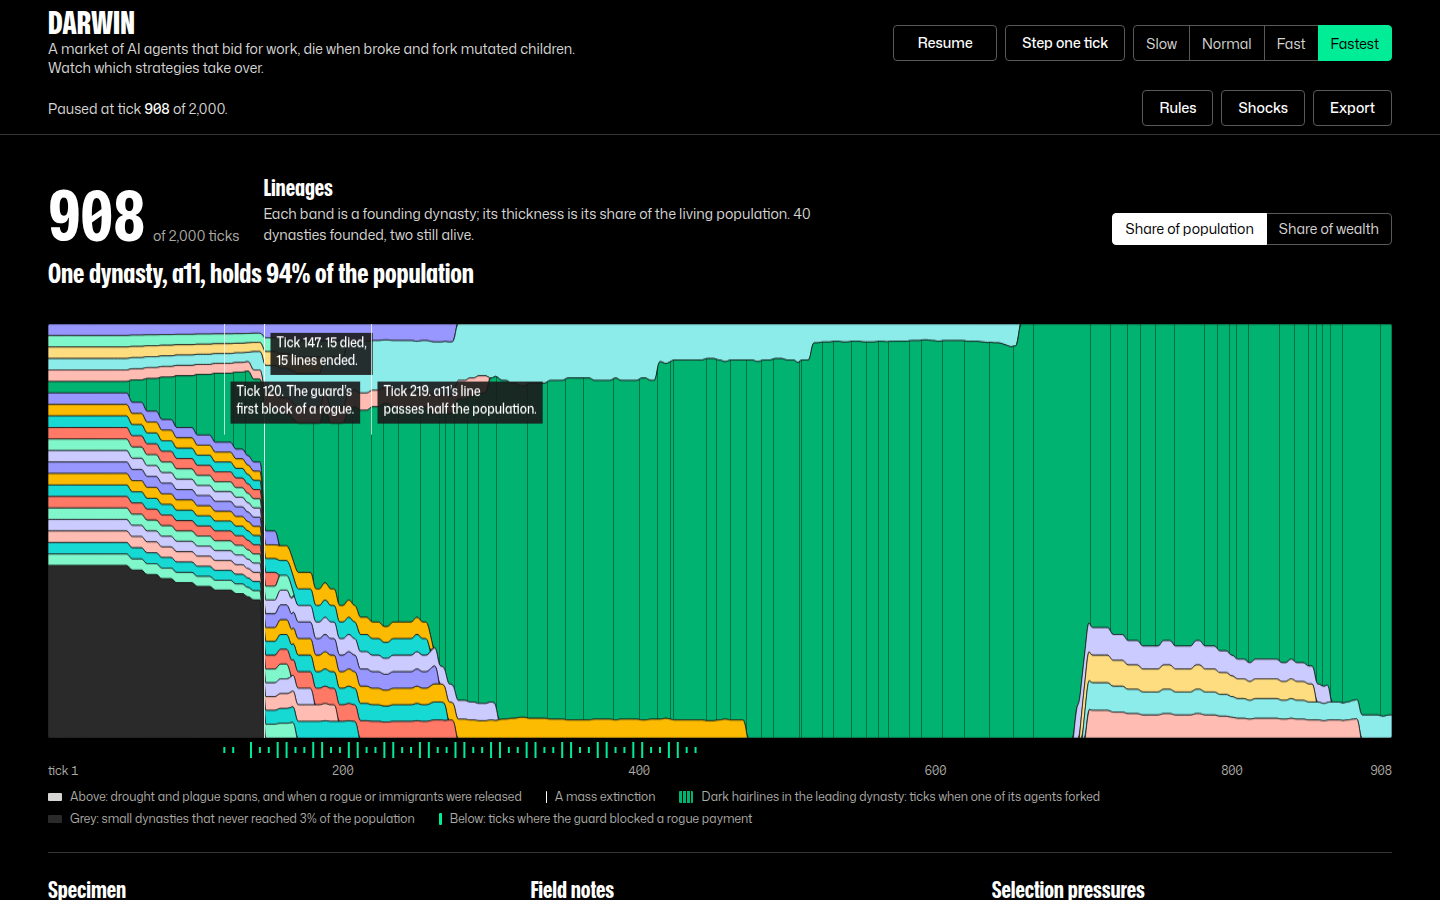
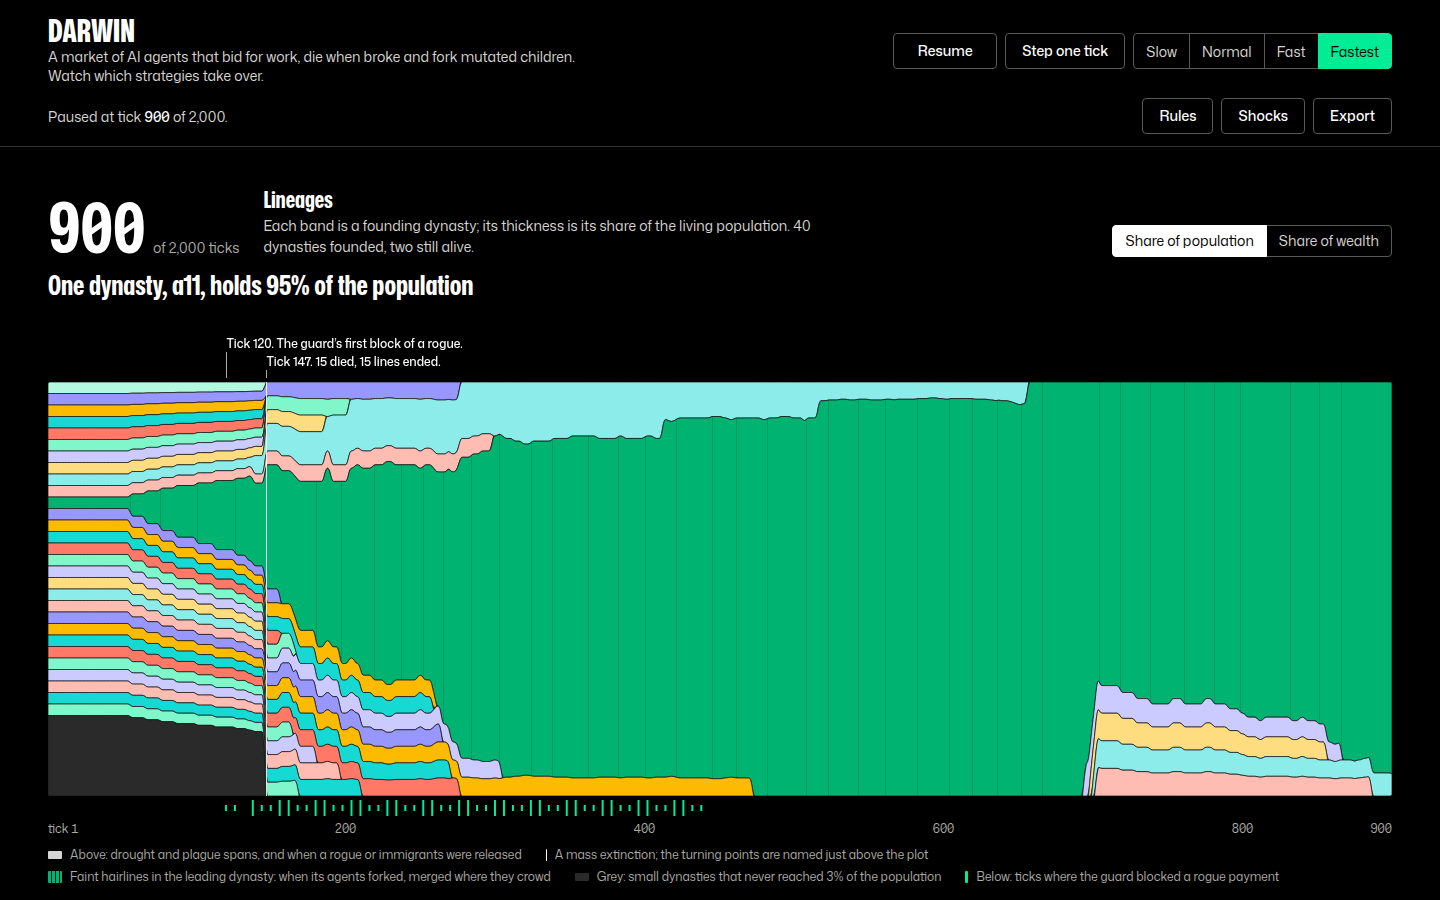
Dashboard: top 12 dynasties always banded with the pooled band capped at 20%, turning points in a lane above the plot, sparser fork hairlines, bar padding, task kinds in distinct NEAR hues

diff --git a/dashboard/app.js b/dashboard/app.js
@@ -54,9 +54,14 @@ const esc = (s) => String(s).replace(/[&<>"]/g, (c) => ({ "&": "&amp;", "<": "&l
 const idHtml = (id) => `<span class="id">${esc(short(id))}</span>`;
 const list = (xs) => (xs.length <= 1 ? xs.join("") : xs.slice(0, -1).join(", ") + " and " + xs[xs.length - 1]);
 
-// Dynasties whose share never passes this are pooled into one muted band on the plot.
+// The TOP_BANDS dynasties by peak share always get their own band; of the rest, those whose share
+// never passes MINOR_PEAK are pooled into one muted band on the plot.
 const OTHER = "__other";
 const MINOR_PEAK = 0.03;
+const TOP_BANDS = 12;
+// The pooled band may never hold more than this share at any tick: while many small founders together
+// are most of the field, the largest of them come back out as their own bands.
+const OTHER_CAP = 0.2;
 
 function colourOf(f, deep = false) {
   if (f === OTHER) return T.other;
@@ -359,6 +364,7 @@ const canvas = $("#muller");
 const ctx = canvas.getContext("2d");
 const shockCv = $("#shock-lane");
 const guardCv = $("#guard-lane");
+const notesCv = $("#notes-lane");
 let geo = null; // last layout: { samples, bands: Map(f -> {y0, y1}), w, h, x(i) }
 
 function sizeCanvas(cv) {
@@ -396,7 +402,30 @@ function layout(w) {
   // Only group once some dynasty has pulled ahead: while every founder is still near its equal share,
   // grouping by an absolute cut would hide the whole field.
   const top = Math.max(0, ...peak.values());
-  const minor = new Set([...S.founders.keys()].filter((f) => { const p = peak.get(f) || 0; return p < MINOR_PEAK && p < top / 4; }));
+  const kept = new Set([...S.founders.keys()].sort((a, b) => (peak.get(b) || 0) - (peak.get(a) || 0)).slice(0, TOP_BANDS));
+  const minor = new Set([...S.founders.keys()].filter((f) => { const p = peak.get(f) || 0; return !kept.has(f) && p < MINOR_PEAK && p < top / 4; }));
+  // Per sample: the pooled share, and each pooled founder's own share, so promoting one is a subtraction.
+  const pooled = new Float64Array(samples.length);
+  const shareOf = new Map();
+  samples.forEach((mi, si) => {
+    const lin = M[mi].lineages || {};
+    let total = 0;
+    for (const f in lin) total += valueOf(lin[f], S.mode);
+    if (!total) return;
+    for (const f in lin) if (minor.has(f)) {
+      const v = valueOf(lin[f], S.mode) / total;
+      pooled[si] += v;
+      if (!shareOf.has(f)) shareOf.set(f, new Float64Array(samples.length));
+      shareOf.get(f)[si] = v;
+    }
+  });
+  const pooledPeak = () => pooled.reduce((a, v) => Math.max(a, v), 0);
+  const byPeak = [...minor].sort((a, b) => (peak.get(b) || 0) - (peak.get(a) || 0));
+  while (byPeak.length && pooledPeak() > OTHER_CAP) {
+    const f = byPeak.shift();
+    minor.delete(f);
+    shareOf.get(f)?.forEach((v, si) => (pooled[si] -= v));
+  }
   const order = [...S.founders.entries()].filter(([f]) => !minor.has(f)).sort((a, b) => a[1].idx - b[1].idx).map(([f]) => f);
   if (minor.size) order.push(OTHER);
   const bands = new Map(order.map((f) => [f, { y0: new Float32Array(samples.length), y1: new Float32Array(samples.length), first: -1, last: -1 }]));
@@ -510,19 +539,24 @@ function drawPlot() {
     c.lineWidth = 0.75;
     c.strokeStyle = T["paper-3"];
     c.stroke();
-    // Inside the leader, a hairline at every tick one of its agents forked: the texture of its growth.
+    // Inside the leader, a hairline where its agents forked: the texture of its growth. Forks closer than
+    // FORK_GAP px merge into one line, so a busy stretch reads as denser texture, not a fence.
     if (f === deepF) {
+      const FORK_GAP = 20;
       c.save();
       tracePath(c, b, from, to, x, h);
       c.clip();
       c.strokeStyle = T.paper;
-      c.globalAlpha = 0.38;
+      c.globalAlpha = 0.14;
       c.lineWidth = 1;
       c.beginPath();
+      let lastX = -Infinity;
       for (const m of S.metrics) {
         const k = m.lineages?.[f]?.forks;
         if (!k) continue;
         const xx = Math.round(xt(m.tick)) + 0.5;
+        if (xx - lastX < FORK_GAP) continue;
+        lastX = xx;
         c.moveTo(xx, 0);
         c.lineTo(xx, h);
       }
@@ -583,38 +617,10 @@ function drawPlot() {
     c.globalAlpha = 1;
   }
 
-  // Turning points, pinned as short notes in up to three rows so none overlap.
-  c.font = `500 12px ${T.body}`;
-  c.textBaseline = "top";
-  const rows = [[], [], []];
-  const ROW_H = 44;
-  for (const a of turningPoints(sc)) {
-    const xx = Math.round(xt(a.tick)) + 0.5;
-    const tw = Math.max(...a.lines.map((l) => c.measureText(l).width)) + 12;
-    let lx = xx + 6;
-    if (lx + tw > w) lx = xx - 6 - tw;
-    if (lx < 0) continue;
-    const r = rows.findIndex((row) => row.every(([a0, a1]) => lx + tw + 8 < a0 || lx > a1 + 8));
-    if (r < 0 || (r + 1) * ROW_H + 8 > h) continue;
-    rows[r].push([lx, lx + tw]);
-    const ly = 8 + r * ROW_H;
-    if (!a.scar) {
-      c.strokeStyle = T.ink;
-      c.globalAlpha = 0.7;
-      c.lineWidth = 1;
-      c.beginPath();
-      c.moveTo(xx, 0);
-      c.lineTo(xx, ly + 38 + 10);
-      c.stroke();
-    }
-    c.fillStyle = T["paper-3"];
-    c.globalAlpha = 0.9;
-    c.fillRect(lx, ly, tw, 38);
-    c.globalAlpha = 1;
-    c.fillStyle = T.ink;
-    c.fillText(a.lines[0], lx + 6, ly + 4);
-    c.fillText(a.lines[1], lx + 6, ly + 20);
-  }
+  // Turning points, in their own lane above the plot so they never cover a band: stacked in up to three rows,
+  // most telling first, each with a thin leader down to its tick. A note that cannot fit without overlapping
+  // another note or a leader is dropped.
+  drawNotes(turningPoints(sc), xt);
 
   // Guard lane: every tick the guard blocked a payment, in the signal colour.
   const D = S.derived;
@@ -631,6 +637,49 @@ function drawPlot() {
     }
   }
   renderAxis(geo);
+}
+
+function drawNotes(points, xt) {
+  const ROW_H = 18, MAX_ROWS = 3, PAD = 6;
+  const rows = Array.from({ length: MAX_ROWS }, () => []); // row 0 sits nearest the plot
+  const placed = [];
+  const w = canvas.clientWidth;
+  const mc = notesCv.getContext("2d");
+  mc.font = `500 12px ${T.body}`;
+  const clear = (row, a, z) => row.every(([b0, b1]) => z + PAD < b0 || a > b1 + PAD);
+  for (const p of points) {
+    const xx = Math.round(xt(p.tick)) + 0.5;
+    const text = p.lines.join(" ");
+    const tw = mc.measureText(text).width + 8;
+    let lx = Math.min(Math.max(0, xx - 4), w - tw);
+    if (lx < 0) continue;
+    const lead = [xx - 2, xx + 2];
+    const r = rows.findIndex((row, ri) => clear(row, lx, lx + tw) && rows.slice(0, ri).every((below) => clear(below, lead[0], lead[1])));
+    if (r < 0) continue;
+    rows[r].push([lx, lx + tw]);
+    for (let i = 0; i < r; i++) rows[i].push(lead);
+    placed.push({ xx, lx, r, text });
+  }
+  const used = placed.length ? Math.max(...placed.map((p) => p.r)) + 1 : 0;
+  notesCv.parentElement.hidden = !used;
+  if (!used) return;
+  notesCv.style.height = `${used * ROW_H + 6}px`;
+  const { c, h } = sizeCanvas(notesCv);
+  // the lane was sized while hidden on an earlier frame; keep its width in step with the plot
+  c.clearRect(0, 0, w, h);
+  c.font = `500 12px ${T.body}`;
+  c.textBaseline = "middle";
+  for (const p of placed) {
+    const cy = h - 6 - p.r * ROW_H - ROW_H / 2;
+    c.strokeStyle = T.muted;
+    c.lineWidth = 1;
+    c.beginPath();
+    c.moveTo(p.xx, cy + ROW_H / 2 - 2);
+    c.lineTo(p.xx, h);
+    c.stroke();
+    c.fillStyle = T.ink;
+    c.fillText(p.text, p.lx + 4, cy);
+  }
 }
 
 // At most five turning points, most telling first: the largest extinction, the first dynasty past half,
@@ -916,8 +965,8 @@ function renderSpecimen() {
     gene("Fork threshold", "forks above, credits", g3.forkAt, 6, g3.forkAt?.toFixed(2)) +
     gene("Specialisation", "top skill weight", specialisation, 1, specialisation.toFixed(2)) +
     `</dl>` +
-    `<div class="spec__kinds"><h4>Specialisation by task kind</h4><div class="kinds">${specMean.map((v, i) => `<span style="flex-grow:${v};background:color-mix(in oklch, ${colour} ${100 - i * 22}%, ${T["paper-3"]})"></span>`).join("")}</div>` +
-    `<div class="kinds-legend">${KINDS.map((k, i) => `<span>${k}<b>${specMean[i].toFixed(2)}</b></span>`).join("")}</div></div>` +
+    `<div class="spec__kinds"><h4>Specialisation by task kind</h4><div class="kinds">${specMean.map((v, i) => `<span class="kind--${KINDS[i]}" style="flex-grow:${v}"></span>`).join("")}</div>` +
+    `<div class="kinds-legend">${KINDS.map((k, i) => `<span><i class="kind--${k}"></i>${k}<b>${specMean[i].toFixed(2)}</b></span>`).join("")}</div></div>` +
     `<p class="spec__note">${note}</p>`;
 }
 

diff --git a/dashboard/app.css b/dashboard/app.css
@@ -51,7 +51,7 @@ fieldset { margin: 0; padding: 0; border: 0; min-width: 0; }
 
 /* Top bar */
 .bar { position: sticky; top: 0; z-index: var(--z-sticky-nav); background: var(--color-paper); border-bottom: 1px solid var(--color-rule-soft); }
-.bar__inner { display: flex; flex-wrap: wrap; align-items: center; gap: var(--space-sm) var(--space-lg); min-height: 64px; padding-block: var(--space-xs); }
+.bar__inner { display: flex; flex-wrap: wrap; align-items: center; gap: var(--space-sm) var(--space-lg); min-height: 64px; padding-block: var(--space-md) var(--space-sm); }
 .brand { display: grid; gap: var(--space-3xs); flex: 1 1 24rem; min-width: 0; }
 .tagline { max-width: 62ch; }
 .tagline { color: var(--color-ink-2); font-size: var(--text-sm); line-height: 1.35; }
@@ -91,6 +91,7 @@ fieldset { margin: 0; padding: 0; border: 0; min-width: 0; }
 
 .plot { display: grid; grid-template-columns: minmax(0, 1fr); gap: var(--space-2xs); }
 .lane canvas { width: 100%; height: 16px; }
+.lane--notes canvas { height: 24px; }
 .plot__well { position: relative; height: clamp(300px, 46vh, 520px); background: var(--color-paper-3); border-radius: 2px; }
 .plot__well canvas { width: 100%; height: 100%; cursor: crosshair; border-radius: 2px; }
 .plot__well canvas:focus-visible { outline: 2px solid var(--color-focus); outline-offset: 3px; }
@@ -153,6 +154,11 @@ fieldset { margin: 0; padding: 0; border: 0; min-width: 0; }
 .kinds { display: flex; height: 24px; border-radius: 2px; overflow: hidden; gap: var(--space-3xs); }
 .kinds span { min-width: 0; transition: flex-grow var(--dur-long) var(--ease-out); }
 .kinds-legend { display: grid; grid-template-columns: repeat(4, minmax(0, 1fr)); gap: var(--space-xs); margin-top: var(--space-2xs); font-size: var(--text-xs); color: var(--color-muted); }
+.kind--arith { background: var(--kind-arith); }
+.kind--extract { background: var(--kind-extract); }
+.kind--classify { background: var(--kind-classify); }
+.kind--reason { background: var(--kind-reason); }
+.kinds-legend i { display: inline-block; width: 8px; height: 8px; margin-right: var(--space-2xs); border-radius: 1px; vertical-align: 0.05em; }
 .kinds-legend b { display: block; color: var(--color-ink); font-family: var(--font-body); font-weight: 400; font-size: var(--text-sm); font-variant-numeric: tabular-nums; }
 .spec__note { margin-top: var(--space-md); font-size: var(--text-xs); color: var(--color-muted); }
 

diff --git a/dashboard/index.html b/dashboard/index.html
@@ -71,6 +71,7 @@
 
     <div class="plot" id="plot" data-state="loading">
       <div class="lane lane--shock" aria-hidden="true"><canvas id="shock-lane"></canvas></div>
+      <div class="lane lane--notes" aria-hidden="true" hidden><canvas id="notes-lane"></canvas></div>
       <div class="plot__well">
         <canvas id="muller" tabindex="0" role="img" aria-label="Muller plot of dynasties over time. Use the up and down arrow keys to select a dynasty."></canvas>
         <p class="plot__caption" id="plot-caption"></p>
@@ -81,7 +82,7 @@
       <div class="lane lane--guard" aria-hidden="true"><canvas id="guard-lane"></canvas></div>
       <div class="axis" id="axis" aria-hidden="true"></div>
     </div>
-    <p class="key"><span><i class="k-shock"></i>Above: drought and plague spans, and when a rogue or immigrants were released</span><span><i class="k-scar"></i>A mass extinction</span><span><i class="k-fork"></i>Dark hairlines in the leading dynasty: ticks when one of its agents forked</span><span><i class="k-other"></i>Grey: small dynasties that never reached 3% of the population</span><span><i class="k-guard"></i>Below: ticks where the guard blocked a rogue payment</span></p>
+    <p class="key"><span><i class="k-shock"></i>Above: drought and plague spans, and when a rogue or immigrants were released</span><span><i class="k-scar"></i>A mass extinction; the turning points are named just above the plot</span><span><i class="k-fork"></i>Faint hairlines in the leading dynasty: when its agents forked, merged where they crowd</span><span><i class="k-other"></i>Grey: small dynasties that never reached 3% of the population</span><span><i class="k-guard"></i>Below: ticks where the guard blocked a rogue payment</span></p>
     <noscript><p class="plot__empty">This view streams the run from the DARWIN server and needs JavaScript.</p></noscript>
   </section>
 

diff --git a/dashboard/tokens.css b/dashboard/tokens.css
@@ -52,6 +52,11 @@
   --pigment-deep-5: #f05a44;  /* coral */
   /* Dynasties that never pass a small share of the population share one muted band. */
   --pigment-other: #2a2a2a; /* recedes: background population, not a dynasty */
+  /* Task kinds in the specimen drawer: four distinct NEAR hues, green left to the UI signal. */
+  --kind-arith: #17d9d4;    /* NEAR cyan */
+  --kind-extract: #9797ff;  /* NEAR purple */
+  --kind-classify: #fcbb00; /* NEAR amber */
+  --kind-reason: #ff7966;   /* NEAR coral */
 
   --font-display: "Mona Sans", "Arial Narrow", ui-sans-serif, sans-serif;
   --font-body: "Mona Sans", ui-sans-serif, system-ui, sans-serif;
